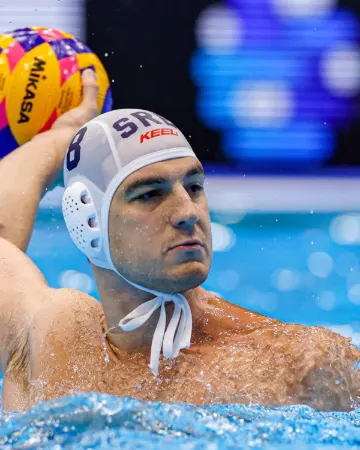
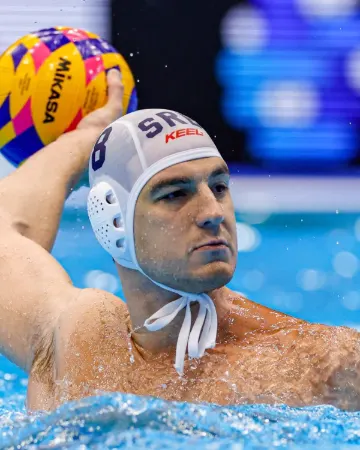
Preview: centre Jakšić's head in his photo

diff --git a/preview/index.html b/preview/index.html
@@ -52,7 +52,7 @@ body{background:var(--ground);color:var(--chrome-fg);font:14px/1.4 system-ui,-ap
 <footer class="site-foot">Total Waterpolo · site footer (BeTheme)</footer>
 <script>
 (function () {
-  var V = '55', KEY = 'tpax-preview-pw';
+  var V = '56', KEY = 'tpax-preview-pw';
   var gate = document.getElementById('gate'), page = document.getElementById('page'), form = document.getElementById('gate-form');
   var input = document.getElementById('pw'), err = document.getElementById('err'), btn = document.getElementById('go');
   function bytes(b64) { var s = atob(b64), u = new Uint8Array(s.length); for (var i = 0; i < s.length; i++) u[i] = s.charCodeAt(i); return u; }
